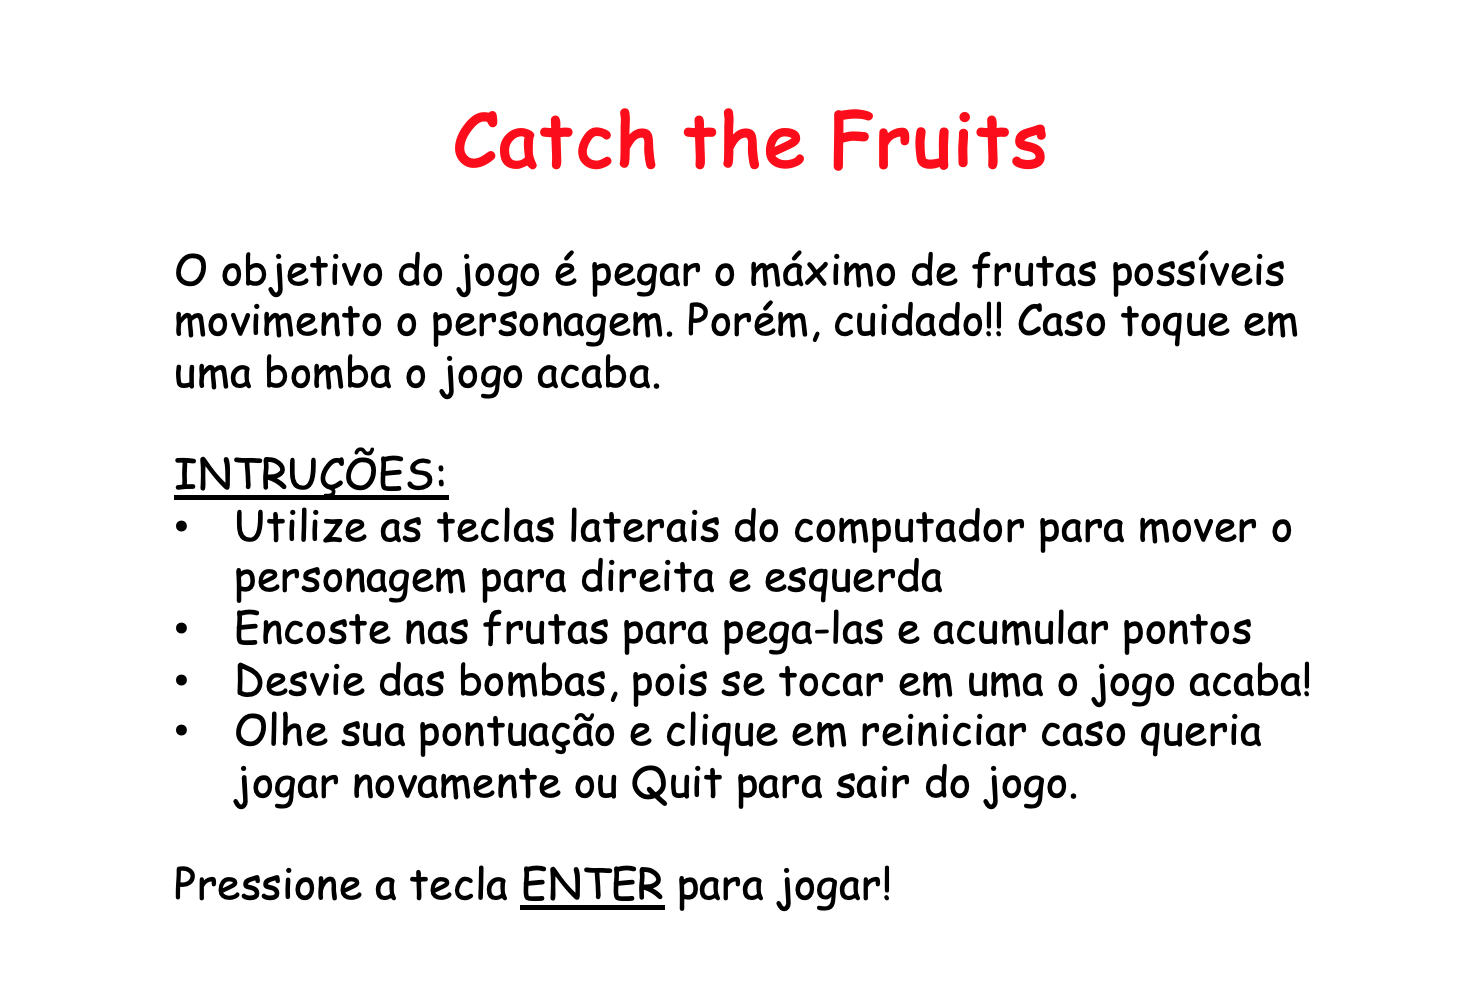
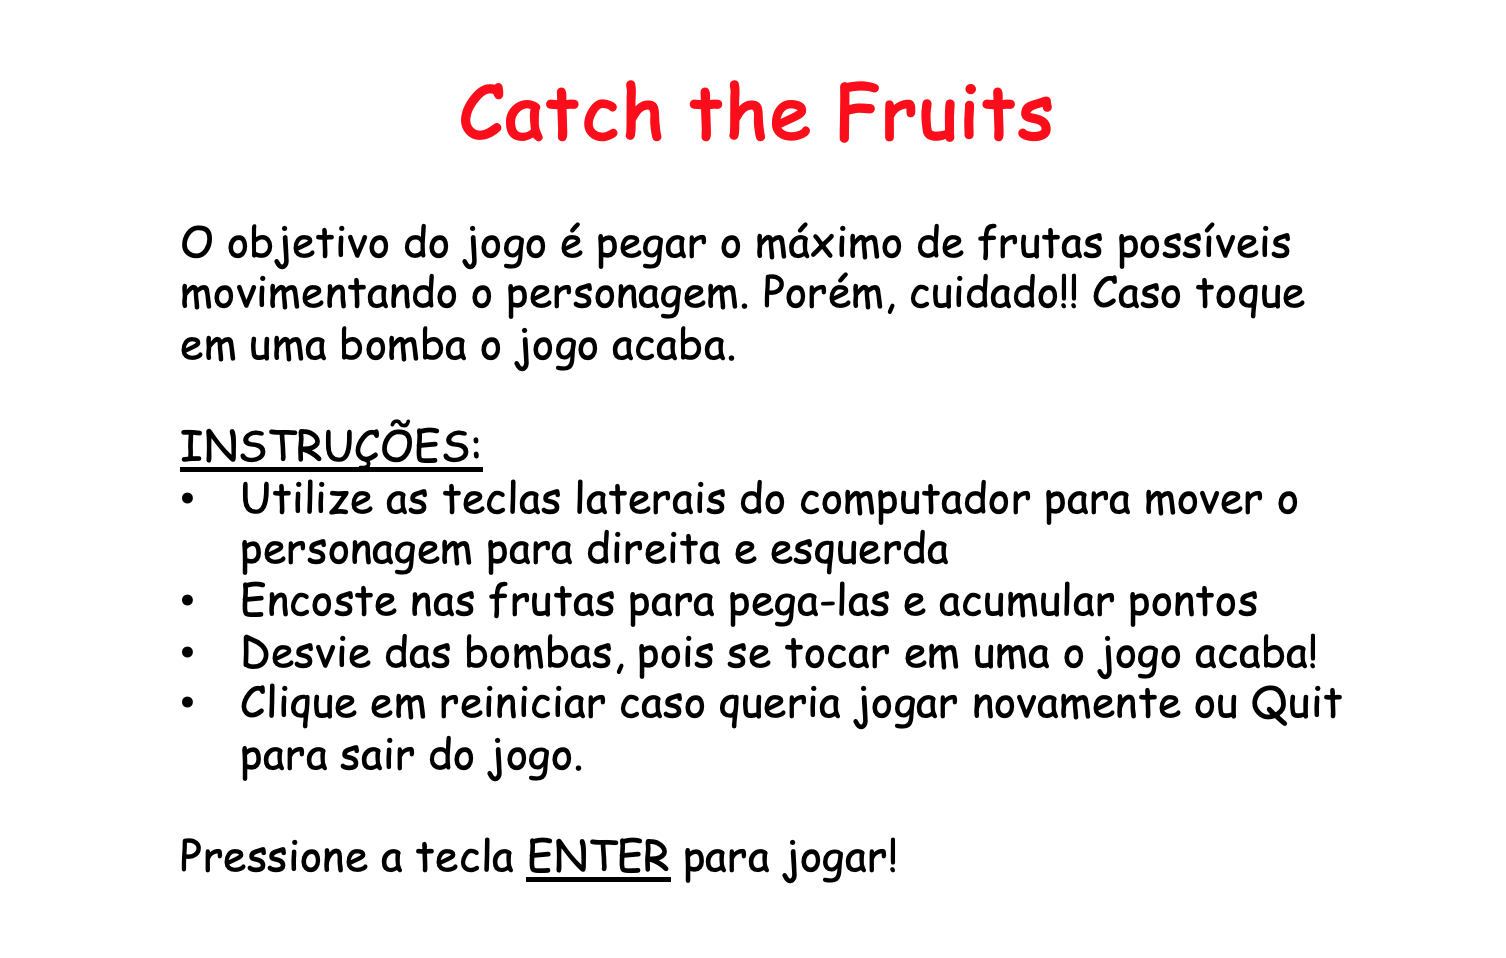
codigo comentado

diff --git a/jogo.py b/jogo.py
@@ -1,3 +1,4 @@
+# importa bibliotecas e arquivos necessários
 import pygame
 from pygame.locals import *
 import random
@@ -8,79 +9,108 @@ from tela_final import tela_final
 import time
 from assets import audio, fundo_tela, bomba_img
 
+# Função que irá criar a tela principal de jogo
 def tela_jogo(tela):
-
+    #Iniciando o pygame
     pygame.init()
 
+    # Definindo o tamanho da tela e seu nome
     tela = pygame.display.set_mode((largura, altura))
     pygame.display.set_caption("Catch the Fruits")
 
-    fundo_tela = pygame.image.load('assets/img/tela_fundo.png')
-    fundo_tela = pygame.transform.scale(fundo_tela, (largura, altura))
-    bomba_img = pygame.image.load('assets/img/bomba.png')
-    bomba_img = pygame.transform.scale(bomba_img, (60, 60))
-
+    # Criando um grupo de Sprites principal
     grupo_Sprites = pygame.sprite.Group()
-    pessoa = Pessoa()
-    grupo_Sprites.add(pessoa)
 
+    # Criando grupo de Sprites para cada uma das imagens que serão desenhadas na tela
     grupo_frutas = pygame.sprite.Group()
     grupo_bombas = pygame.sprite.Group()
+    # Criando uma variável da classe Pessoa
+    pessoa = Pessoa()
+    # Adicionado a variável no grupo de Sprites principal
+    grupo_Sprites.add(pessoa)
 
+
+    # Carregando a lista que contém as imagens das frutas
     lista_frutas = load_assets()
 
-   
+    # Iniciando a variável que mostrará a pontuação
     pontuacao = 0
 
+    # Declarndo a fonte que será usada no texto da pontuação 
     fonte = pygame.font.Font(None, 36)
 
+    # Criando um for que sorteia um número aleatório e o relacionado com o aparecimento de frutas ou bombas na tela
     for i in range(10):
         contador = random.randint(0, 100)
-        if contador < 50:
+        # Caso o número for menor que 40, sorteia uma fruta
+        if contador < 40:
+            # Escolhendo uma imagem de fruta aleatória
             fruta = Frutas(random.choice(lista_frutas))
+            # Adicionado au grupo de Sprites específico
             grupo_frutas.add(fruta)
+            # Adicionando ao grupo de Sprites principal
             grupo_Sprites.add(fruta)
+        # Caso o número for maior que 40, aparece uma bomba
         else:
+            # Inspeciona a classe Bomba 
             bomba = Bombas(bomba_img)
+            # Adiciona ao grupo de Sprites específico
             grupo_bombas.add(bomba)
+            # Adiciona ao grupo de Sprites principal
             grupo_Sprites.add(bomba)
 
+    # Define o relogio do jogo
     relogio = pygame.time.Clock()
 
-    while True:
+    #Inicializa o loop principal da tela
+    rodando = True
+    while rodando:
+        # Loop que certifica que sempre serão desenhadas novas frutas na tela
         while len(grupo_frutas) < min_frutas:
             fruta = Frutas(random.choice(lista_frutas))
             grupo_frutas.add(fruta)
             grupo_Sprites.add(fruta)
 
+        # Define os eventos do pygame
         for event in pygame.event.get():
+            # Se o evento for do tipo saiir do jogo, a tela fecha
             if event.type == QUIT:
                 pygame.quit()
+            # Se o evento for do tipo apertar uma tecla e essa for a tecla lateral direita, o personagem andará para a direita
             if event.type == pygame.KEYDOWN:
                 if event.key == pygame.K_RIGHT:
                     pessoa.rect.x += aceleracao
+                # Se o evento for do tipo apertar uma tecla e essa for a tecla lateral esquerda, o personagem andará para a esquerda
                 if event.key == pygame.K_LEFT:
                     pessoa.rect.x -= aceleracao
 
-
+        # Verifica se houve colisão do personagem com bombas
         colisao_bomba = pygame.sprite.spritecollide(pessoa, grupo_bombas, True, pygame.sprite.collide_mask)
         if colisao_bomba:
+            # Audio toca
             audio.play()
             som_length = audio.get_length()
             pygame.time.wait(int(som_length * 1000))
+            # Jogo acaba e direciona para a tela final
             state = tela_final(tela)
             return state
 
-
+        # Verifica se houve colisão com alguma fruta
         colisao_fruta = pygame.sprite.spritecollide(pessoa, grupo_frutas, True, pygame.sprite.collide_mask)
         if colisao_fruta:
+            # Pontuação aumenta um ponto
             pontuacao += 1
 
+        # Defina a imagem como fundo da tela do jogo
         tela.blit(fundo_tela, (0, 0))
 
+        # Atualiza os Sprites a cada tela
         grupo_Sprites.update()
+
+        # Desenha os Sprites a cada tela
         grupo_Sprites.draw(tela)
 
+        # Coloca a pontuação na tela
         texto_pontuacao = fonte.render(f'Pontuação: {pontuacao}', True, (255, 255,255, 255))
         tela.blit(texto_pontuacao, (10, 10))
 

diff --git a/classes.py b/classes.py
@@ -1,7 +1,9 @@
+# Importando bibliotecas e arquivos necessários
 import pygame
 import random
 from configuracoes import largura_pessoa, altura_pessoa, aceleracao
 
+# Classe que irá definir os atributos de movimento e aparencia do personagem na tela
 class Pessoa(pygame.sprite.Sprite):
     def __init__(self):
         pygame.sprite.Sprite.__init__(self)
@@ -10,8 +12,7 @@ class Pessoa(pygame.sprite.Sprite):
         self.rect = self.image.get_rect()
         self.rect.x = 380
         self.rect.y = 290
-        print(self.rect)
-
+# Atualiza as caracteristicas a cada tela
     def update(self):
         if self.rect.x > 830:
             self.rect.x = 830
@@ -21,7 +22,7 @@ class Pessoa(pygame.sprite.Sprite):
 
 
 
-
+# Classe que irá definir os atributos de movimento e aparencia das frutas na tela
 class Frutas(pygame.sprite.Sprite):
     def __init__(self, imagem):
         pygame.sprite.Sprite.__init__(self)
@@ -30,13 +31,14 @@ class Frutas(pygame.sprite.Sprite):
         self.rect.x = random.randint(0, 1000 - self.rect.width)  
         self.rect.y = random.randint(-self.rect.height, -10)  
         self.speed = random.randint(3, 6)  
+# Atulaiza as posicoes das frutas a cada tela
     def update(self):
         self.rect.y += self.speed
         if self.rect.y > 600:
             self.rect.y = random.randint(-self.rect.height, -10)
             self.rect.x = random.randint(0, 1000 - self.rect.width)
 
-
+# Classe que irá definir os atributos de movimento e aparência das bombas na tela
 class Bombas(pygame.sprite.Sprite):
     def __init__(self, imagem):
         pygame.sprite.Sprite.__init__(self)
@@ -45,12 +47,14 @@ class Bombas(pygame.sprite.Sprite):
         self.rect.x = random.randint(0, 1000 - self.rect.width)  
         self.rect.y = random.randint(-self.rect.height, -10)  
         self.speed = random.randint(3, 6)  
+# Atulaiza as posicoes e velocidade das bombas a cada tela
     def update(self):
         self.rect.y += self.speed
         if self.rect.y > 600:
             self.rect.y = random.randint(-self.rect.height, -10)
             self.rect.x = random.randint(0, 1000 - self.rect.width)
 
+# Classe que define as caracteristicas de aparência dos botões na tela
 class Botao(pygame.sprite.Sprite):
     def __init__(self, x, y, imagem, escala):
         pygame.sprite.Sprite.__init__(self)

diff --git a/tela_inicio.py b/tela_inicio.py
@@ -1,3 +1,4 @@
+# Importa bibliotecas e arquivos necessários
 import pygame
 from configuracoes import GAME, INIT, INSTRUCOES, largura, altura
 from tela_instrucoes import tela_instrucoes
@@ -5,37 +6,50 @@ from jogo import tela_jogo
 from classes import Botao
 from assets import fundo_tela_fosca, jogar_claro, regras_claro, titulo
 
+# Função que irá criar a tela inicial
 def tela_inicio(tela):
+    # Definindo o estado da tela
     state = INIT
 
+    # Criando a jeanela da tela, e definindo seu tamanho e nome
     tela_inicio = pygame.display.set_mode((largura, altura))
     pygame.display.set_caption("Catch the Fruits")
 
+    # Criando botões de jogar e regras, inspecionando a classe Botao
     botao_jogar = Botao(450, 430, jogar_claro, 6)
     botao_regras = Botao(900, 430, regras_claro, 6)
 
+    # Definindo o relógio do jogo
     relogio = pygame.time.Clock()
 
+    # Criando o loop principal da tela
     rodando = True
     while rodando:
+        # Definindo os eventos do pygame
         for event in pygame.event.get():
+            # Verificase o evento é sair da tela, caso seja ela fecha
             if event.type == pygame.QUIT:
                 pygame.quit()
+            # Caso clique no botão regras, é direcionado para a tela de instruções
             elif event.type == pygame.MOUSEBUTTONDOWN:
                 if botao_regras.rect.collidepoint(event.pos):
                     rodando = False
                     state = tela_instrucoes(tela)
+                # Caso clique no botão jogar, o jogo começa
                 if botao_jogar.rect.collidepoint(event.pos):
                     rodando = False
                     state = tela_jogo(tela)
 
-
+        # Definindo a imagem fosca como fundo de tela
         tela.blit(fundo_tela_fosca, (0, 0))
         tela.blit(titulo, (350, 50))
 
+        # Criando grupo de Sprites
         grupo_botoes = pygame.sprite.Group()
+        #Adicionado os botões ao grupo de Sprites
         grupo_botoes.add(botao_jogar)
         grupo_botoes.add(botao_regras)
+        # Desenhando os Sprites na tela
         grupo_botoes.draw(tela)
 
         relogio.tick(40)

diff --git a/tela_final.py b/tela_final.py
@@ -1,19 +1,23 @@
+# Importa bibliotecas e arquivos necessários
 import pygame
 from configuracoes import GAME, INIT, largura, altura
 from assets import fundo_tela_fosca, quit_claro, quit_escuro, reset_escuro, reset_claro, titulo
 from classes import Botao
 
-
+# Função que irá criar a tela final
 def tela_final(tela): 
 
     tela_final = pygame.display.set_mode((largura, altura))
     pygame.display.set_caption("Catch the Fruits")
 
+    # Cria dois botões, de quit e reset inspecionando a classe Botao
     botao_quit = Botao(320, 689, quit_claro, 6)
     botao_reset = Botao(900, 710, reset_claro, 6)
 
+    # Define o relógio do jogo
     relogio = pygame.time.Clock()
 
+    #Inicializa o loop principal da tela
     rodando = True
     while rodando:
         for event in pygame.event.get():
@@ -29,12 +33,15 @@ def tela_final(tela):
                     rodando = False
                     state = GAME
 
-
+        # Define a imagem fosca como fundo de tela
         tela.blit(fundo_tela_fosca, (0, 0))
+        # Coloca a iamgem do título na tela
         tela.blit(titulo, (350, 50))
+        # Adiciona os botões ao grupo de Sprites
         grupo_botoes = pygame.sprite.Group()
         grupo_botoes.add(botao_quit)
         grupo_botoes.add(botao_reset)
+        # Desenha os botões na tela
         grupo_botoes.draw(tela)
 
         relogio.tick(40)

diff --git a/tela_instrucoes.py b/tela_instrucoes.py
@@ -1,21 +1,28 @@
+# Importando bibliotecas e arquivos necessários
 import pygame
 from configuracoes import GAME, INSTRUCOES, QUIT, largura, altura
 from jogo import tela_jogo
 from assets import fundo_tela_fosca, instrucoes
 
+# Função que irá criar a tela de instruções
 def tela_instrucoes(tela):
+    # Iniciando a loop principal da tela
     running = True
     while running:
+        # Verifica se o evento é sair da tela, caso seja ela fecha
         for event in pygame.event.get():
             if event.type == pygame.QUIT:
                 pygame.quit()
 
+            # Verifica se o tipo de evento é apertar uma tecla
             if event.type == pygame.KEYDOWN:
-                running = False
-                state = tela_jogo(tela)
-
+                # Caso a tecla apertada seja espaço, o jogo começa
+                if event.key == pygame.K_SPACE:
+                    running = False
+                    state = tela_jogo(tela)
+        # Define a imagem fosca como fundo de tela
         tela.blit(fundo_tela_fosca, (0,0))
-
+        # Coloca a imagem de intruções na tela
         tela.blit(instrucoes, (210, 50))
         
 

diff --git a/assets.py b/assets.py
@@ -1,8 +1,10 @@
+# Importando bibliotecas e arquivos necessários
 import pygame 
 from os import path
 import os
 from configuracoes import largura, altura
 
+# Funcao que carrega as imagens de frutas
 def load_assets():
     nomes = [
         'melancia', 'abacaxi', 'amora', 'banana',
@@ -17,6 +19,7 @@ def load_assets():
 
 pygame.mixer.init()
 
+# Carregando as imagens que serão utilizadas no jogo ao longo das telas
 fundo_tela = pygame.image.load('assets/img/tela_fundo.png')
 fundo_tela = pygame.transform.scale(fundo_tela, (largura, altura))
 bomba_img = pygame.image.load('assets/img/bomba.png')

diff --git a/loop.py b/loop.py
@@ -1,3 +1,4 @@
+# Importa bibliotecas e arquivos necessários
 import pygame   
 import random
 from tela_inicio import tela_inicio
@@ -6,13 +7,14 @@ from tela_final import tela_final
 from tela_instrucoes import tela_instrucoes
 from configuracoes import INIT, GAME, QUIT, GAME_OVER, INSTRUCOES
 
+# Inicializa o pygame
 pygame.init()
-pygame.mixer.init()
 
-
+# Cria a janela, seu tamanho e nome
 janela = pygame.display.set_mode((600, 1000))
 pygame.display.set_caption('Catch the Fruits')
 
+# Define os estados de jogo e mudança de tela
 state = INIT
 while state != QUIT:
     if state == INIT:

diff --git a/configuracoes.py b/configuracoes.py
@@ -1,3 +1,4 @@
+# Definie elementos básicos de referêcia
 largura = 1000
 altura = 600
 

diff --git a/README.md b/README.md
@@ -4,10 +4,10 @@ Esse projeto foi feito pelas alunas Anita Pontalti e Rafaella Generoso na discip
  # O jogo chamado Catch the Fruits, tem como objetivo conseguir pegar o máximo número de frutas possíveis sem encostar nas bombas, quando isso ocorrer o jogo acaba. 
 
 # Intruções:
-1. Clique na tela de instruções e leia as regras
+1. Clique na tela de regras e leia as regras e intruções de jogo
 2. Clique em Jogar para começar o jogo
 3. Utilizando as teclas laterais do computador desvie das bombas e pegue o máximo de frutas possíveis
-4. Ao encerrar o jogo, olhe sua pontuação e reinicie o jogo
+4. Ao encerrar o jogo, reinicie o jogo
 
 # ARQUIVOS
 O jogo que deverá ser executado esta no arquivo "loop.py" ;
